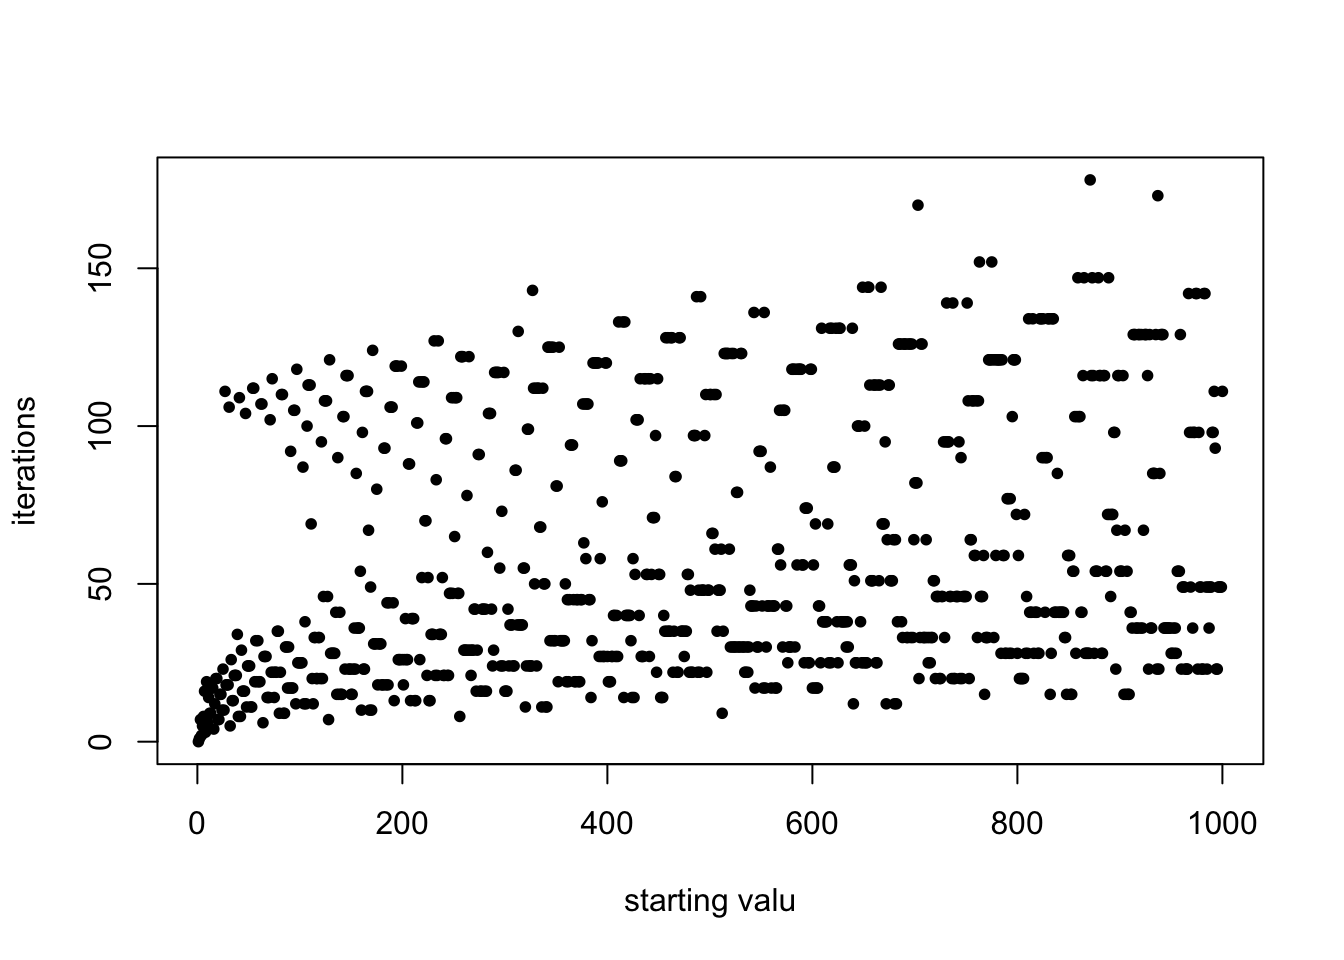
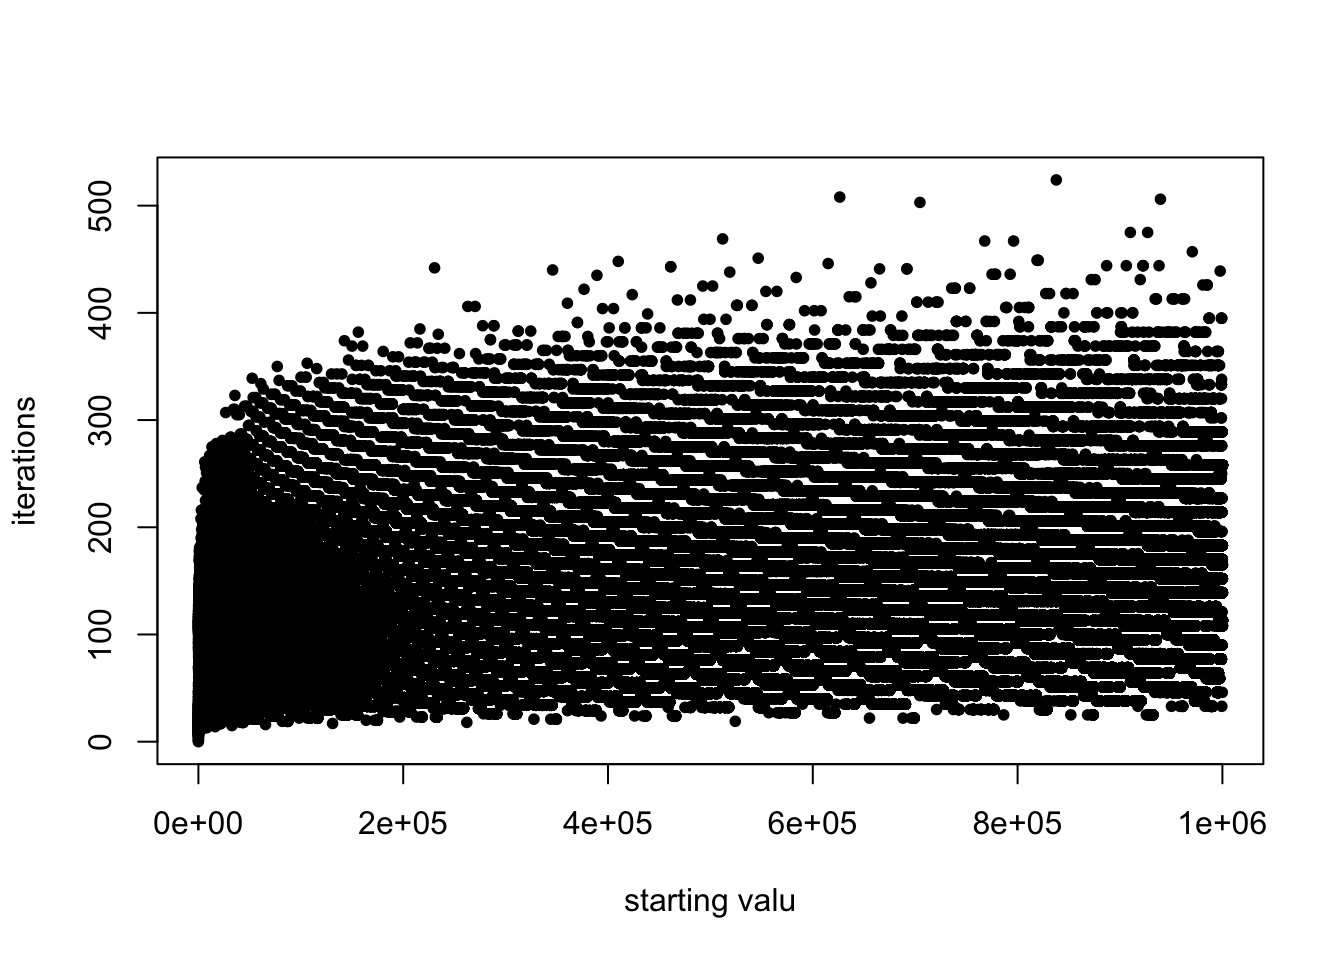
update to 1e6 for R version 1

diff --git a/hotpo_compare.html b/hotpo_compare.html
@@ -154,7 +154,7 @@ pre > code.sourceCode > span > a:first-child::before { text-decoration: underlin
 <section id="example-output" class="level2">
 <h2 class="anchored" data-anchor-id="example-output">Example output</h2>
 <div class="cell">
-<div class="sourceCode cell-code" id="cb3"><pre class="sourceCode r code-with-copy"><code class="sourceCode r"><span id="cb3-1"><a href="#cb3-1" aria-hidden="true" tabindex="-1"></a>x <span class="ot">=</span> <span class="dv">1</span><span class="sc">:</span><span class="fl">1e3</span></span>
+<div class="sourceCode cell-code" id="cb3"><pre class="sourceCode r code-with-copy"><code class="sourceCode r"><span id="cb3-1"><a href="#cb3-1" aria-hidden="true" tabindex="-1"></a>x <span class="ot">=</span> <span class="dv">1</span><span class="sc">:</span><span class="fl">1e6</span></span>
 <span id="cb3-2"><a href="#cb3-2" aria-hidden="true" tabindex="-1"></a>res <span class="ot">&lt;-</span> <span class="fu">sapply</span>(x, hotpo)</span>
 <span id="cb3-3"><a href="#cb3-3" aria-hidden="true" tabindex="-1"></a><span class="fu">plot</span>(res, <span class="at">xlab=</span><span class="st">'starting valu'</span>, <span class="at">ylab=</span><span class="st">'iterations'</span>,<span class="at">pch=</span><span class="dv">20</span>)</span></code><button title="Copy to Clipboard" class="code-copy-button"><i class="bi"></i></button></pre></div>
 <div class="cell-output-display">
@@ -238,7 +238,7 @@ pre > code.sourceCode > span > a:first-child::before { text-decoration: underlin
 <span id="cb18-3"><a href="#cb18-3" aria-hidden="true" tabindex="-1"></a><span class="im">using</span> <span class="bu">BenchmarkTools</span></span>
 <span id="cb18-4"><a href="#cb18-4" aria-hidden="true" tabindex="-1"></a>time1 <span class="op">=</span> <span class="pp">@elapsed</span> res1 <span class="op">=</span> <span class="fu">map</span>(hotpo, x)</span></code><button title="Copy to Clipboard" class="code-copy-button"><i class="bi"></i></button></pre></div>
 <div class="cell-output cell-output-stdout">
-<pre><code>1.092414084</code></pre>
+<pre><code>1.091382292</code></pre>
 </div>
 <div class="sourceCode cell-code" id="cb20"><pre class="sourceCode julia code-with-copy"><code class="sourceCode julia"><span id="cb20-1"><a href="#cb20-1" aria-hidden="true" tabindex="-1"></a><span class="fu">sum</span>(res1)</span></code><button title="Copy to Clipboard" class="code-copy-button"><i class="bi"></i></button></pre></div>
 <div class="cell-output cell-output-stdout">
@@ -267,7 +267,7 @@ pre > code.sourceCode > span > a:first-child::before { text-decoration: underlin
 </div>
 <div class="sourceCode cell-code" id="cb24"><pre class="sourceCode julia code-with-copy"><code class="sourceCode julia"><span id="cb24-1"><a href="#cb24-1" aria-hidden="true" tabindex="-1"></a>time2 <span class="op">=</span> <span class="pp">@elapsed</span> res2 <span class="op">=</span> <span class="fu">map</span>(hotpo2, x)</span></code><button title="Copy to Clipboard" class="code-copy-button"><i class="bi"></i></button></pre></div>
 <div class="cell-output cell-output-stdout">
-<pre><code>0.146435917</code></pre>
+<pre><code>0.14531825</code></pre>
 </div>
 <div class="sourceCode cell-code" id="cb26"><pre class="sourceCode julia code-with-copy"><code class="sourceCode julia"><span id="cb26-1"><a href="#cb26-1" aria-hidden="true" tabindex="-1"></a><span class="fu">sum</span>(res2)</span></code><button title="Copy to Clipboard" class="code-copy-button"><i class="bi"></i></button></pre></div>
 <div class="cell-output cell-output-stdout">
